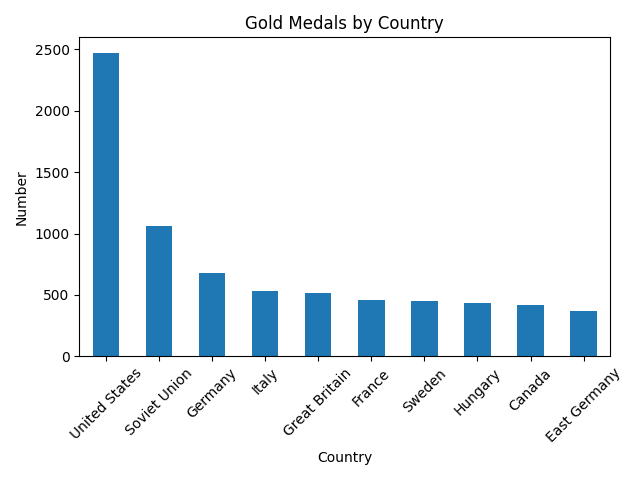
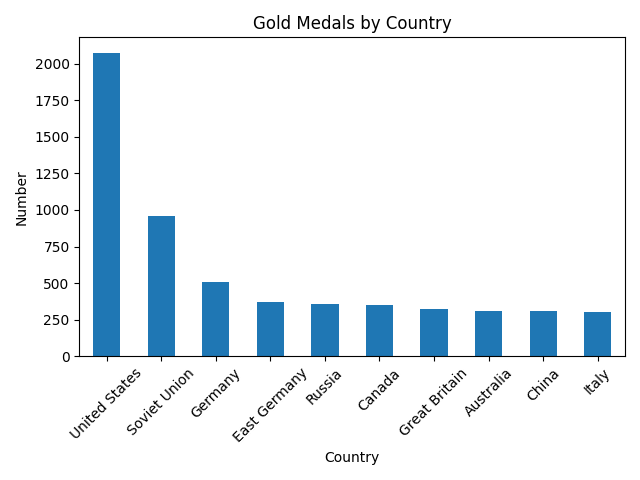
20/6

diff --git a/a2_main.py b/a2_main.py
@@ -2,7 +2,7 @@ import matplotlib.pyplot as plt
 import pandas as pd
 
 df = pd.read_csv("athlete_events_cleaned.csv")
-df2 = pd.read_csv("gold_medalists.csv")
+df2 = pd.read_csv("gold_medalists_cleaned.csv")
 
 sport_counts = df['Sport'].value_counts().head(10)
 
